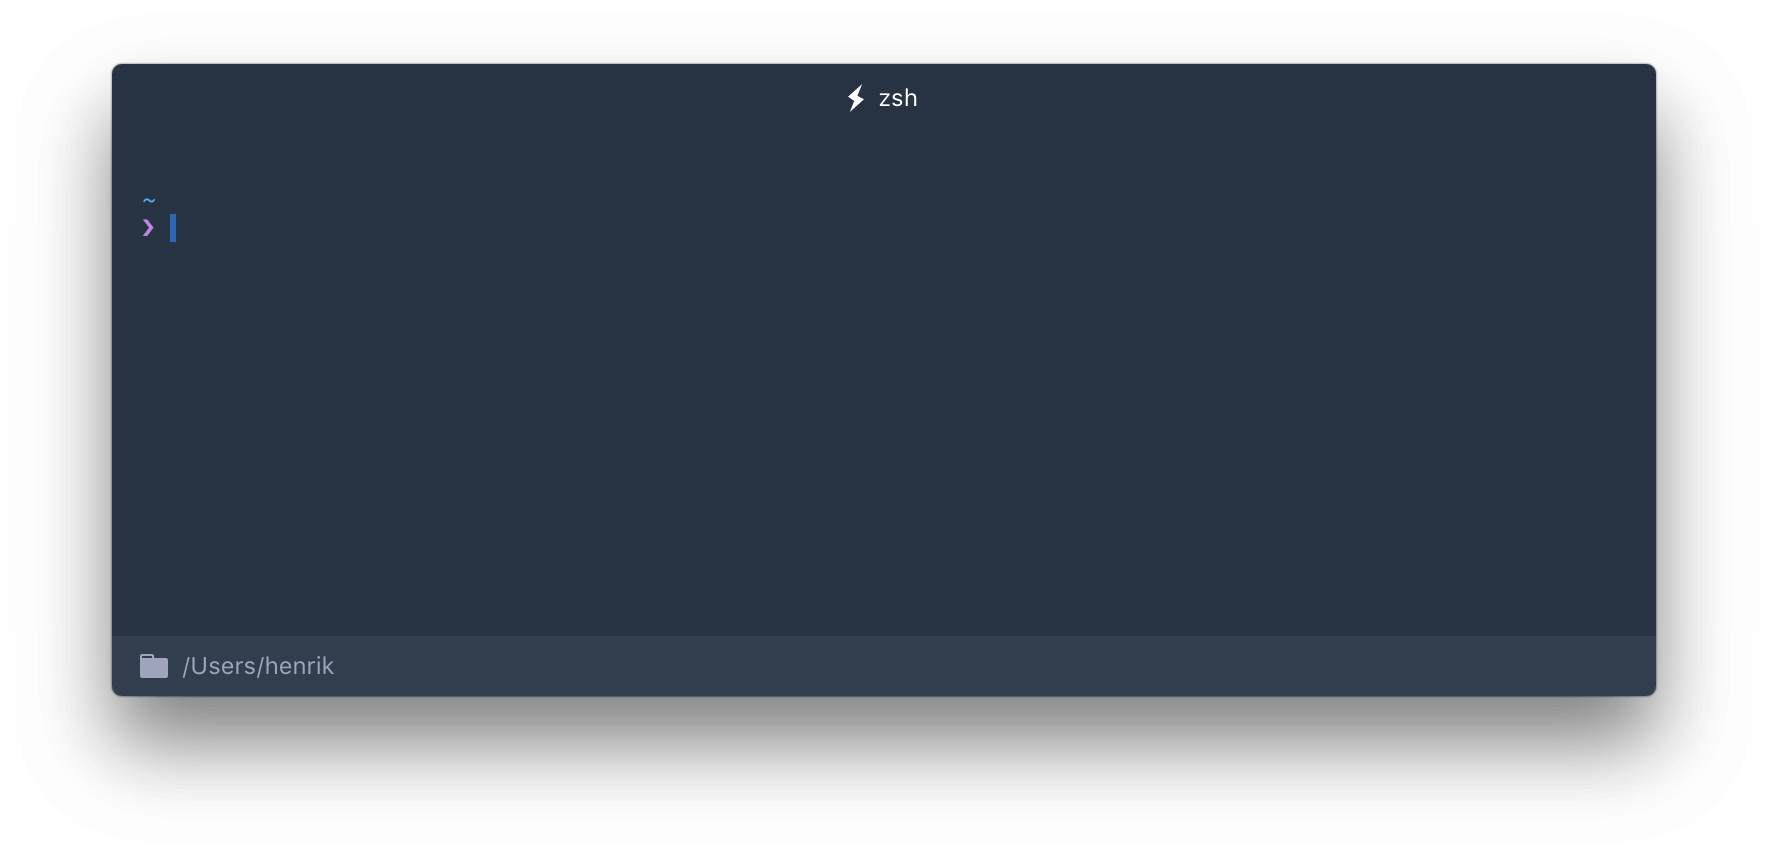
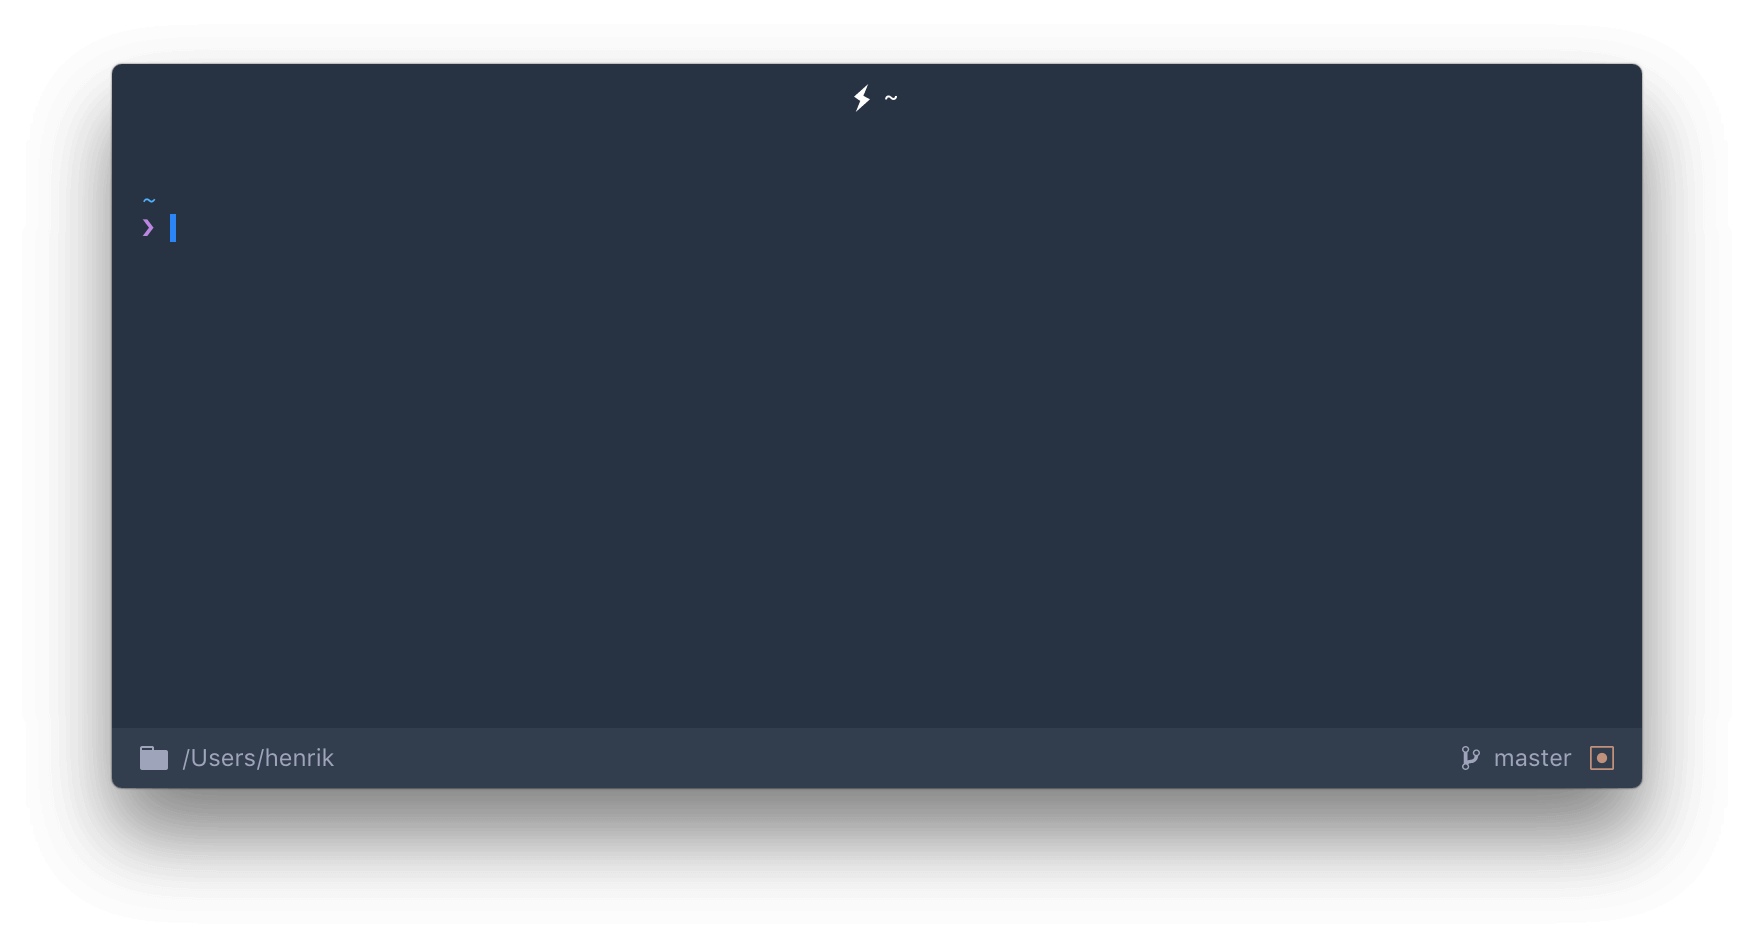
added dirty repo visual

Changed region(s): [[0.0616, 0.7593, 0.9544, 0.8505], [0.0616, 0.0607, 0.9544, 0.1215], [0.0616, 0.243, 0.1231, 0.2734]]

diff --git a/index.js b/index.js
@@ -63,6 +63,7 @@ exports.decorateConfig = config => {
             .item_active::before {
                 content: '';
                 position: absolute;
+                top: 0;
                 left: 0;
                 width: 14px;
                 height: 100%;
@@ -84,6 +85,22 @@ exports.decorateConfig = config => {
                 -webkit-mask-image: url('${__dirname}/icons/branch.svg');
                 -webkit-mask-size: 9px 12px;
             }
+            .item_dirty {
+                padding-right: 21px;
+            }
+            .item_dirty::after {
+                content: '';
+                position: absolute;
+                top: 0;
+                right: 0;
+                width: 14px;
+                height: 100%;
+                -webkit-mask-repeat: no-repeat;
+                -webkit-mask-position: right center;
+                -webkit-mask-image: url('${__dirname}/icons/dirty.svg');
+                -webkit-mask-size: 12px 12px;
+                background-color: #FFB68E;
+            }
             .item_click:hover {
                 text-decoration: underline;
                 cursor: pointer;
@@ -96,6 +113,7 @@ let curPid;
 let curCwd;
 let curBranch;
 let curRemote;
+let repoDirty;
 let uids = {};
 
 // Current shell cwd
@@ -111,13 +129,13 @@ const setCwd = (pid) => {
     })
 };
 
-
 // Current git branch
 const setBranch = (actionCwd) => {
     exec(`git symbolic-ref --short HEAD`, { cwd: actionCwd }, (err, branch) => {
         curBranch = branch;
+
         if (branch !== '') {
-          setRemote(actionCwd);
+            setRemote(actionCwd);
         }
     })
 };
@@ -125,7 +143,14 @@ const setBranch = (actionCwd) => {
 // Current git remote
 const setRemote = (actionCwd) => {
     exec(`git config --get remote.origin.url`, { cwd: actionCwd }, (err, remote) => {
-        curRemote = /^https?:\/\//.test(remote) ? remote.replace(/[A-z0-9\-]+@/, '').replace(/.git$/, '') : '';
+        curRemote = /^https?:\/\//.test(remote) ? remote.replace(/[A-z0-9\-]+@/, '').replace(/\.git/, '') : '';
+    })
+};
+
+// Check if repo is dirty
+const checkDirty = (actionCwd) => {
+    exec(`git status --porcelain --ignore-submodules -unormal`, { cwd: actionCwd }, (err, dirty) => {
+        repoDirty = dirty;
     })
 };
 
@@ -137,27 +162,29 @@ exports.decorateHyper = (Hyper, { React }) => {
             this.state = {
                 folder: curCwd,
                 branch: curBranch,
-                remote: curRemote
+                remote: curRemote,
+                dirty: repoDirty,
             }
             this.handleClick = this.handleClick.bind(this);
         }
         handleClick(e) {
             if (e.target.classList.contains('item_folder')) {
-              shell.openExternal('file://'+this.state.folder);
+                shell.openExternal('file://'+this.state.folder);
             }
             else {
-               shell.openExternal(this.state.remote);
+                shell.openExternal(this.state.remote);
             }
         }
         render() {
             const hasBranch = this.state.branch !== '' ? 'item_active' : '';
             const hasRemote = this.state.remote !== '' ? 'item_click' : '';
+            const isDirty = this.state.dirty !== '' ? 'item_dirty' : '';
 
             return (
                 React.createElement(Hyper, Object.assign({}, this.props, {
                     customChildren: React.createElement('footer', { className: 'footer_footer' },
                         React.createElement('div', { className: 'item_item item_folder item_active item_click', onClick: this.handleClick }, this.state.folder),
-                        React.createElement('div', { className: `item_item item_branch ${hasBranch} ${hasRemote}`, onClick: this.handleClick },  this.state.branch)
+                        React.createElement('div', { className: `item_item item_branch ${hasBranch} ${hasRemote} ${isDirty}`, onClick: this.handleClick },  this.state.branch)
                     )
                 }))
             )
@@ -166,7 +193,8 @@ exports.decorateHyper = (Hyper, { React }) => {
             setInterval(() => this.setState({
                 folder: curCwd,
                 branch: curBranch,
-                remote: curRemote
+                remote: curRemote,
+                dirty: repoDirty,
             }), 100)
         }
     };
@@ -185,6 +213,7 @@ exports.middleware = (store) => (next) => (action) => {
             break;
         case 'SESSION_SET_CWD':
             setBranch(curCwd);
+            checkDirty(curCwd);
             break;
         case 'SESSION_SET_ACTIVE':
             curPid = uids[action.uid];
